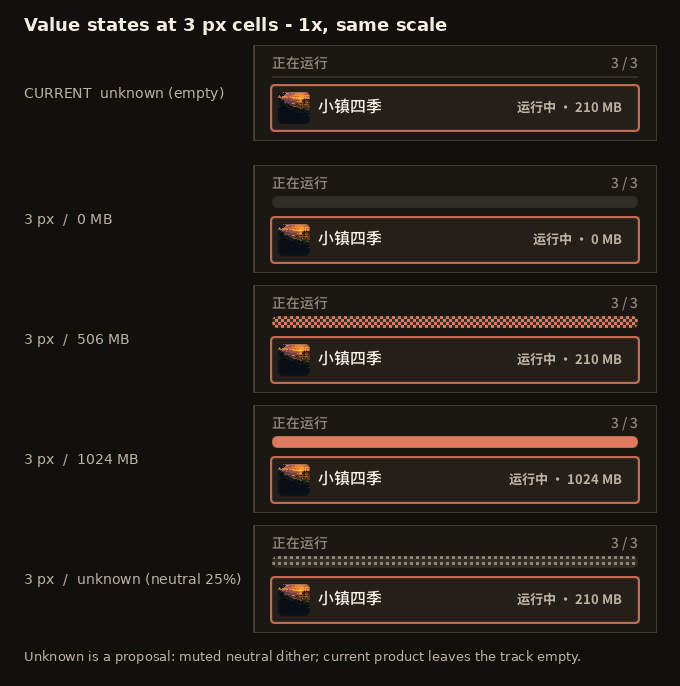
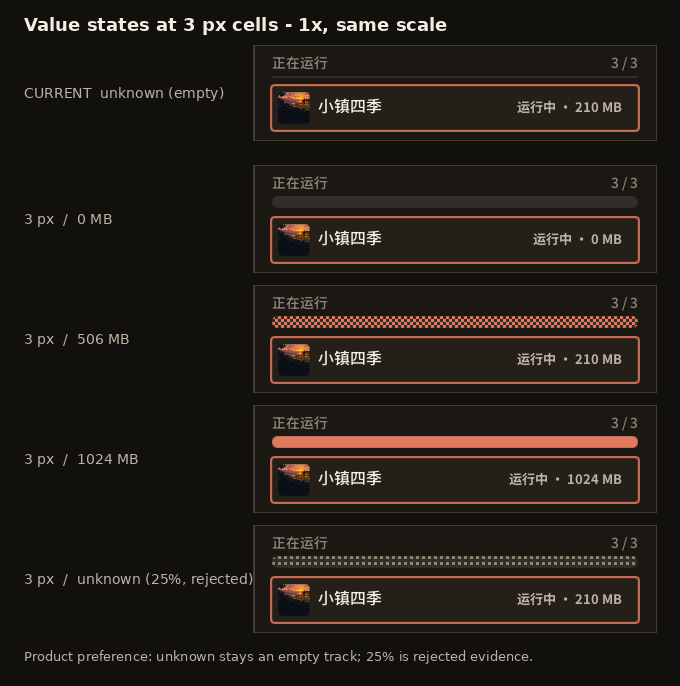
Clarify CUI sample idle scope and decision
Zero-initialise the four self-check bake structs so a failed
short-circuit allocation cannot free garbage.  Document that
verify_idle only advances home_update and gfx begin/end frames and
never calls sample rendering or baking, so the zero-present/damage
evidence covers a settled host scene, not product invalidation,
rebake suppression or cache integration.

Record the accepted direction: 3 px cells / 12 px bar, and unknown
stays an empty track with the existing 未知 text; the 25% neutral
sample is retained only as rejected evidence.

Amp-Thread-ID: https://ampcode.com/threads/T-01a1d4f5-5bae-7614-8c68-7d80f1b201bf

Changed region(s): [[0.0309, 0.949, 0.8647, 0.9796], [0.2162, 0.8265, 0.3706, 0.8571]]

diff --git a/prototype/cui/cui_samples.c b/prototype/cui/cui_samples.c
@@ -1,5 +1,6 @@
 #define _POSIX_C_SOURCE 200809L
 
+#include <errno.h>
 #include <stdbool.h>
 #include <stdint.h>
 #include <stdio.h>
@@ -609,8 +610,8 @@ static bool self_check(const char *out_dir) {
   }
 
   bool subset = true;
-  cui_dither_bitmap low;
-  cui_dither_bitmap high;
+  cui_dither_bitmap low = {0};
+  cui_dither_bitmap high = {0};
   bool baked = cui_dither_bake(&low, 8, 8, 1, 0.25f,
                                bd_color_rgba(255, 255, 255, 255)) &&
                cui_dither_bake(&high, 8, 8, 1, 0.75f,
@@ -629,8 +630,8 @@ static bool self_check(const char *out_dir) {
   cui_dither_free(&low);
   cui_dither_free(&high);
 
-  cui_dither_bitmap over;
-  cui_dither_bitmap under;
+  cui_dither_bitmap over = {0};
+  cui_dither_bitmap under = {0};
   bool clamp = cui_dither_bake(&over, 8, 8, 1, 1.5f,
                                bd_color_rgba(255, 255, 255, 255)) &&
                cui_dither_bake(&under, 8, 8, 1, -1.0f,
@@ -746,8 +747,10 @@ int main(int argc, char **argv) {
     return 2;
   }
   const char *out_dir = argv[1];
-  if (mkdir(out_dir, 0777) != 0) {
-    /* Reusing an existing output directory is fine. */
+  if (mkdir(out_dir, 0777) != 0 && errno != EEXIST) {
+    fprintf(stderr, "cui_samples: cannot create %s: %s\n", out_dir,
+            strerror(errno));
+    return 1;
   }
 
   bd_platform_config config;

diff --git a/prototype/cui/compare.py b/prototype/cui/compare.py
@@ -119,11 +119,11 @@ def main() -> int:
             ("3 px  /  0 MB", "05_cell3_zero", bar_box(manifest["05_cell3_zero"])),
             ("3 px  /  506 MB", "06_cell3_506", bar_box(manifest["06_cell3_506"])),
             ("3 px  /  1024 MB", "07_cell3_full", bar_box(manifest["07_cell3_full"])),
-            ("3 px  /  unknown (neutral 25%)", "08_cell3_unknown", bar_box(manifest["08_cell3_unknown"])),
+            ("3 px  /  unknown (25%, rejected)", "08_cell3_unknown", bar_box(manifest["08_cell3_unknown"])),
         ],
         "Value states at 3 px cells - 1x, same scale",
         "compare_values_1x.png",
-        note="Unknown is a proposal: muted neutral dither; current product leaves the track empty.",
+        note="Product preference: unknown stays an empty track; 25% is rejected evidence.",
     )
 
     panes = [

diff --git a/prototype/cui/README.md b/prototype/cui/README.md
@@ -32,9 +32,9 @@ prototype/cui/run.sh /tmp/cui-samples
 | --- | --- |
 | `00_current_506.png` | 现状：366×2 实心条，506 MB |
 | `00b_current_unknown.png` | 现状：未知内存（空条，和 0 无法区分） |
-| `01`–`04_cell2_*` | 2 px 格，10 px 条（5 行），0 / 506 / 1024 / unknown |
-| `05`–`08_cell3_*` | 3 px 格，12 px 条（4 行），0 / 506 / 1024 / unknown |
-| `09`–`12_cell4_*` | 4 px 格，16 px 条（4 行），0 / 506 / 1024 / unknown |
+| `01`–`04_cell2_*` | 2 px 格，10 px 条（5 行），0 / 506 / 1024 / unknown（25% 中性提案，已否决） |
+| `05`–`08_cell3_*` | 3 px 格，12 px 条（4 行），0 / 506 / 1024 / unknown（25% 中性提案，已否决） |
+| `09`–`12_cell4_*` | 4 px 格，16 px 条（4 行），0 / 506 / 1024 / unknown（25% 中性提案，已否决） |
 | `compare_bar_1x.png` | 现状 + 2/3/4 px 在 506 MB 的同尺度（1:1）对照 |
 | `compare_values_1x.png` | 现状 unknown + 3 px 的 0/506/1024/unknown 同尺度对照 |
 | `compare_panels_1x.png` | 四张完整面板并排，1:1 |
@@ -44,10 +44,10 @@ prototype/cui/run.sh /tmp/cui-samples
 
 ## 实现
 
-- `cui_dither.c/.h`：CUI commit `86d9781bbc3c35c264ec46287ad89c1d86a4c4de` 的 8×8 Bayer 阈值 C 移植。每格烘一个 RGBA texel，点亮格为强调色（unknown 用 `ink3`），空格透明；纹理用 `BD_TEXTURE_NEAREST` 按整数倍画到条上，不在 ES3 shader 里做位运算。
+- `cui_dither.c/.h`：CUI commit `86d9781bbc3c35c264ec46287ad89c1d86a4c4de` 的 8×8 Bayer 阈值 C 移植。每格烘一个 RGBA texel，点亮格为强调色（unknown 样例的 25% 中性 `ink3` 提案已否决；产品保持空条），空格透明；纹理用 `BD_TEXTURE_NEAREST` 按整数倍画到条上，不在 ES3 shader 里做位运算。
 - `cui_samples.c`：真实 `bd_home` 面板 + 样例运行区。`bar_h` 增加后，行起点为 `204 + bar_h`，保留 8 px 间距；底部控件随之下移。
 - 条几何：2 px 格 366×10（183×5 texels，3.6 KB）；3 px 格 366×12（122×4，1.95 KB）；4 px 格 364×16（91×4，1.46 KB）。4 px 用 364 宽是为了让 91 个格全部是精确 4 px；它比 366 左右各窄 1 px。2/3 px 保持产品 366 宽。
-- 只在尺寸/值/主题变化时重烘一次并 `texture_update`；静止时不重绘、不重烘。
+- 样例在每次 value/尺寸切换时主动重烘一次并通过 `texture_update` 上传；这是工具路径，不是产品缓存。`verify_idle` 只推进 `bd_home_update` 和 `bd_gfx_begin/end_frame`，不调用样例绘制或烘焙；因此它验证的是已稳定的 host 场景不会 present/damage，不证明产品侧的值/主题失效、重烘抑制或缓存接入。
 
 ## 验证
 
@@ -58,24 +58,22 @@ prototype/cui/run.sh /tmp/cui-samples
 - 圆角：100% 时检查四角不出现点阵色；条内直段实心。
 - 网格：独立 Python 重算 Bayer 掩码，逐格检查中心颜色；内部格必须是 `cell × cell` 的纯色块，行/列步进与条原点对齐。
 - 真实布局：面板 x=622、w=402；条 y=196；行起点与控件位置；条底到行起点 >= 8 px；控件不越界。
-- 静止零重绘：每张图后连续 120 帧不输入、不换值；`idle_presents=0`、`idle_draw_calls=0`、`idle_damage_rects=0`、`idle_bakes=0`。`manifest.tsv` 和 `verify.log` 是证据。
+- 静止零重绘（有限范围）：每张图后连续 120 帧只调用 `bd_home_update` + `bd_gfx_begin/end_frame`，不调用样例 render/bake；`idle_presents=0`、`idle_draw_calls=0`、`idle_damage_rects=0`、`idle_bakes=0`。这证明已稳定的 host 场景在无输入时不申请帧，不等同于产品接入后的缓存/失效测试。`manifest.tsv` 和 `verify.log` 是证据。
 
 结果：14/14 张通过；两次独立运行（一次 ES2 override、一次默认上下文）的 PNG SHA-256 完全一致；`ctest` 43/43 通过。
 
-## 推荐（供拍板）
+## 产品偏好（协调已确认）
 
-**首选 3 px 格 / 12 px 条。** 1× 下已经能看出方点，条高只比现状增加 10 px，行起点从 204 到 216，面板仍有足够留白；它比 2 px 的“细网点”更接近 CUI 的点阵感，又没有 4 px 那么抢内容。
-
-- 如果想要 CUI 文档 2× 截图那种一眼可辨的方点：选 **4 px / 16 px**。代价是条更醒目、行起点到 220，且为了整格宽度用 364 px。
-- 2 px / 10 px 最保守，但在 1× 下更像纸纹/细网，远看接近实心条。
-- unknown 目前产品是空条，和 0 相同。样例中的 **25% 中性点阵**是提案：它只在保留“后台内存 未知”文字时成立；如果不想引入第二种状态纹理，unknown 应继续留空，而不是用强调色点阵冒充低占用。
+- **3 px 格 / 12 px 条**：1× 下能看出方点，条高只比现状增加 10 px，行起点 216；比 2 px 的细网更接近 CUI 的点阵感，又没有 4 px 抢内容。作为首选。
+- **unknown 保持空条 + 现有“后台内存 未知”文字**，不引入 25% 中性点阵；该方案已评估并否决，样例里的 25% 图仅保留为备选证据。
+- 4 px / 16 px 只在想要更强的 CUI 2× 方点感时考虑：行起点 220，且为了整格宽度用 364 px；2 px / 10 px 在 1× 下更像纸纹，不建议。
 - 不建议把点阵放到文字、图标、焦点环或 3 px 以下的既有进度条上。
 
 ## 边界
 
 - 这是样例，不是产品实现。`bd_home` 的 `BD_HOME_QUICK_ROWS_START` 仍是 204，内存条仍是 366×2；接入时需要给 home 增加一个布局/样式字段（或改常量）、把烘焙纹理纳入 home 的缓存，并只在值变化时 damage 条和必要行。
 - 样例用 `bd_home` 的真实面板作底，再用同色面板背景覆盖运行区来演示更高布局；它不是最终的 `draw_quick()` 代码。
-- 没有 GE8300 / 真机帧时间。这里的 120 帧零重绘证明的是应用层不会申请帧，不是 GPU 驱动性能。
+- 没有 GE8300 / 真机帧时间。这里的 120 帧零重绘只证明已稳定的 host 场景在无输入时不申请帧，不是产品缓存/失效路径，也不是 GPU 驱动性能。
 - 4 px 的 364 px 宽度是刻意的网格取舍；如果产品必须严格 366，需要接受最后一格 2 px 裁切或改条宽。
 - 可选缺封面磁贴没有做；按本轮优先级只交付内存条。
 
